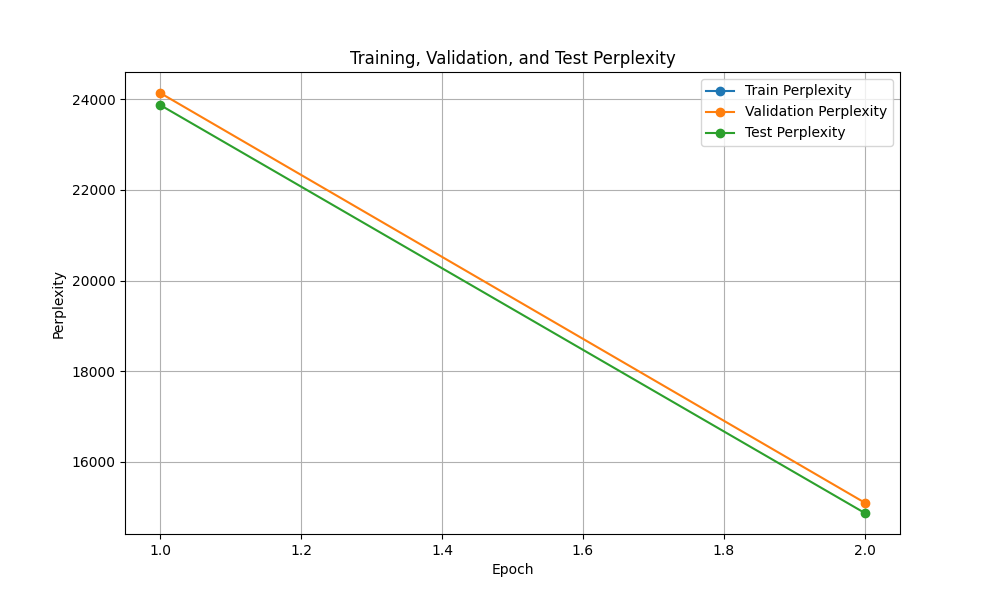
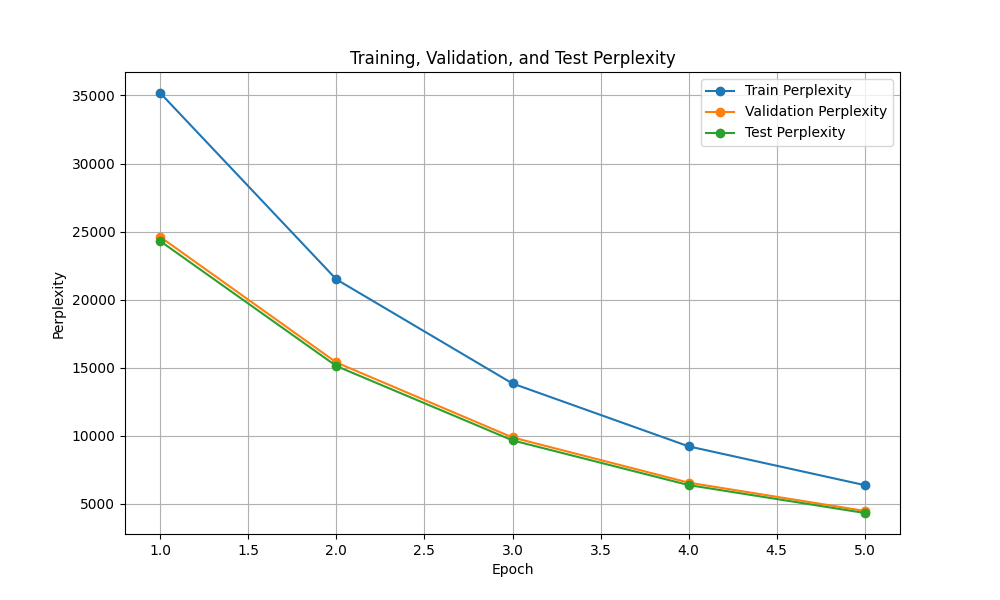
Plotting correct and report outline

diff --git a/saved/model/starter.py b/saved/model/starter.py
@@ -481,87 +481,52 @@ def test_model(model, opt, epoch, tokenizer):
     perplexity = torch.exp(torch.tensor(avg_loss)).item()
     print(f"Epoch {epoch+1}, Test Loss: {avg_loss:.4f}, Test Perplexity: {perplexity:.2f}")
     with open(opt.log_file, "a") as f:
-        f.write(f"Epoch {epoch+1}, Test Perplexity: {perplexity:.2f}\n")
+        f.write(f"Epoch {epoch+1}, Test Loss: {avg_loss:.4f}, Test Perplexity: {perplexity:.2f}\n")
     model.train()
 
 
 def plot_metrics(log_file):
-    epochs = []
-    train_losses = []
-    train_perplexities = []
-    val_losses = []
-    val_perplexities = []
-    test_losses = [] 
-    test_perplexities = []
+    metrics = {}
 
     with open(log_file, 'r') as f:
         for line in f:
-            # Extract epoch number
             epoch_match = re.search(r'Epoch (\d+)', line)
             if epoch_match:
                 epoch = int(epoch_match.group(1))
-                if epoch not in epochs:
-                    epochs.append(epoch)
-                    # Initialize metrics for the new epoch
-                    train_loss = None
-                    train_perplexity = None
-                    val_loss = None
-                    val_perplexity = None
-                    test_loss = None
-                    test_perplexity = None
-                else:
-                    # If epoch already exists, find the index to update
-                    epoch_index = epochs.index(epoch)
-                    train_loss = train_losses[epoch_index] if epoch_index < len(train_losses) else None
-                    train_perplexity = train_perplexities[epoch_index] if epoch_index < len(train_perplexities) else None
-                    val_loss = val_losses[epoch_index] if epoch_index < len(val_losses) else None
-                    val_perplexity = val_perplexities[epoch_index] if epoch_index < len(val_perplexities) else None
-                    test_loss = test_losses[epoch_index] if epoch_index < len(test_losses) else None
-                    test_perplexity = test_perplexities[epoch_index] if epoch_index < len(test_perplexities) else None
+                if epoch not in metrics:
+                    metrics[epoch] = {}
 
-            # Extract train loss
-            train_loss_match = re.search(r'Train Loss \(Epoch\): (\d+\.\d+)', line)
-            if train_loss_match and epoch in epochs:
-                train_losses.append(float(train_loss_match.group(1)))
+            train_loss_match = re.search(r'Train Loss: (\d+\.\d+)', line)
+            if train_loss_match and epoch in metrics:
+                metrics[epoch]['train_loss'] = float(train_loss_match.group(1))
 
-            # Extract train perplexity
-            train_perplexity_match = re.search(r'Train Perplexity \(Epoch\): (\d+\.\d+)', line)
-            if train_perplexity_match and epoch in epochs:
-                train_perplexities.append(float(train_perplexity_match.group(1)))
+            train_perplexity_match = re.search(r'Train Perplexity: (\d+\.\d+)', line)
+            if train_perplexity_match and epoch in metrics:
+                metrics[epoch]['train_perplexity'] = float(train_perplexity_match.group(1))
 
-            # Extract validation loss
             val_loss_match = re.search(r'Validation Loss: (\d+\.\d+)', line)
-            if val_loss_match and epoch in epochs:
-                val_losses.append(float(val_loss_match.group(1)))
+            if val_loss_match and epoch in metrics:
+                metrics[epoch]['val_loss'] = float(val_loss_match.group(1))
 
-            # Extract validation perplexity
             val_perplexity_match = re.search(r'Validation Perplexity: (\d+\.\d+)', line)
-            if val_perplexity_match and epoch in epochs:
-                val_perplexities.append(float(val_perplexity_match.group(1)))
+            if val_perplexity_match and epoch in metrics:
+                metrics[epoch]['val_perplexity'] = float(val_perplexity_match.group(1))
 
-            # Extract test loss (if you start saving it)
             test_loss_match = re.search(r'Test Loss: (\d+\.\d+)', line)
-            if test_loss_match and epoch in epochs:
-                test_losses.append(float(test_loss_match.group(1)))
+            if test_loss_match and epoch in metrics:
+                metrics[epoch]['test_loss'] = float(test_loss_match.group(1))
 
-            # Extract test perplexity
             test_perplexity_match = re.search(r'Test Perplexity: (\d+\.\d+)', line)
-            if test_perplexity_match and epoch in epochs:
-                test_perplexities.append(float(test_perplexity_match.group(1)))
+            if test_perplexity_match and epoch in metrics:
+                metrics[epoch]['test_perplexity'] = float(test_perplexity_match.group(1))
 
-    # Ensure all lists have the same length as epochs
-    while len(train_losses) < len(epochs):
-        train_losses.append(None)
-    while len(train_perplexities) < len(epochs):
-        train_perplexities.append(None)
-    while len(val_losses) < len(epochs):
-        val_losses.append(None)
-    while len(val_perplexities) < len(epochs):
-        val_perplexities.append(None)
-    while len(test_losses) < len(epochs):
-        test_losses.append(None)
-    while len(test_perplexities) < len(epochs):
-        test_perplexities.append(None)
+    epochs = sorted(metrics.keys())
+    train_losses = [metrics[e].get('train_loss') for e in epochs]
+    train_perplexities = [metrics[e].get('train_perplexity') for e in epochs]
+    val_losses = [metrics[e].get('val_loss') for e in epochs]
+    val_perplexities = [metrics[e].get('val_perplexity') for e in epochs]
+    test_losses = [metrics[e].get('test_loss') for e in epochs]
+    test_perplexities = [metrics[e].get('test_perplexity') for e in epochs]
 
     # Plotting Losses
     plt.figure(figsize=(10, 6))

diff --git a/starter.py b/starter.py
@@ -481,87 +481,52 @@ def test_model(model, opt, epoch, tokenizer):
     perplexity = torch.exp(torch.tensor(avg_loss)).item()
     print(f"Epoch {epoch+1}, Test Loss: {avg_loss:.4f}, Test Perplexity: {perplexity:.2f}")
     with open(opt.log_file, "a") as f:
-        f.write(f"Epoch {epoch+1}, Test Perplexity: {perplexity:.2f}\n")
+        f.write(f"Epoch {epoch+1}, Test Loss: {avg_loss:.4f}, Test Perplexity: {perplexity:.2f}\n")
     model.train()
 
 
 def plot_metrics(log_file):
-    epochs = []
-    train_losses = []
-    train_perplexities = []
-    val_losses = []
-    val_perplexities = []
-    test_losses = [] 
-    test_perplexities = []
+    metrics = {}
 
     with open(log_file, 'r') as f:
         for line in f:
-            # Extract epoch number
             epoch_match = re.search(r'Epoch (\d+)', line)
             if epoch_match:
                 epoch = int(epoch_match.group(1))
-                if epoch not in epochs:
-                    epochs.append(epoch)
-                    # Initialize metrics for the new epoch
-                    train_loss = None
-                    train_perplexity = None
-                    val_loss = None
-                    val_perplexity = None
-                    test_loss = None
-                    test_perplexity = None
-                else:
-                    # If epoch already exists, find the index to update
-                    epoch_index = epochs.index(epoch)
-                    train_loss = train_losses[epoch_index] if epoch_index < len(train_losses) else None
-                    train_perplexity = train_perplexities[epoch_index] if epoch_index < len(train_perplexities) else None
-                    val_loss = val_losses[epoch_index] if epoch_index < len(val_losses) else None
-                    val_perplexity = val_perplexities[epoch_index] if epoch_index < len(val_perplexities) else None
-                    test_loss = test_losses[epoch_index] if epoch_index < len(test_losses) else None
-                    test_perplexity = test_perplexities[epoch_index] if epoch_index < len(test_perplexities) else None
+                if epoch not in metrics:
+                    metrics[epoch] = {}
 
-            # Extract train loss
-            train_loss_match = re.search(r'Train Loss \(Epoch\): (\d+\.\d+)', line)
-            if train_loss_match and epoch in epochs:
-                train_losses.append(float(train_loss_match.group(1)))
+            train_loss_match = re.search(r'Train Loss: (\d+\.\d+)', line)
+            if train_loss_match and epoch in metrics:
+                metrics[epoch]['train_loss'] = float(train_loss_match.group(1))
 
-            # Extract train perplexity
-            train_perplexity_match = re.search(r'Train Perplexity \(Epoch\): (\d+\.\d+)', line)
-            if train_perplexity_match and epoch in epochs:
-                train_perplexities.append(float(train_perplexity_match.group(1)))
+            train_perplexity_match = re.search(r'Train Perplexity: (\d+\.\d+)', line)
+            if train_perplexity_match and epoch in metrics:
+                metrics[epoch]['train_perplexity'] = float(train_perplexity_match.group(1))
 
-            # Extract validation loss
             val_loss_match = re.search(r'Validation Loss: (\d+\.\d+)', line)
-            if val_loss_match and epoch in epochs:
-                val_losses.append(float(val_loss_match.group(1)))
+            if val_loss_match and epoch in metrics:
+                metrics[epoch]['val_loss'] = float(val_loss_match.group(1))
 
-            # Extract validation perplexity
             val_perplexity_match = re.search(r'Validation Perplexity: (\d+\.\d+)', line)
-            if val_perplexity_match and epoch in epochs:
-                val_perplexities.append(float(val_perplexity_match.group(1)))
+            if val_perplexity_match and epoch in metrics:
+                metrics[epoch]['val_perplexity'] = float(val_perplexity_match.group(1))
 
-            # Extract test loss (if you start saving it)
             test_loss_match = re.search(r'Test Loss: (\d+\.\d+)', line)
-            if test_loss_match and epoch in epochs:
-                test_losses.append(float(test_loss_match.group(1)))
+            if test_loss_match and epoch in metrics:
+                metrics[epoch]['test_loss'] = float(test_loss_match.group(1))
 
-            # Extract test perplexity
             test_perplexity_match = re.search(r'Test Perplexity: (\d+\.\d+)', line)
-            if test_perplexity_match and epoch in epochs:
-                test_perplexities.append(float(test_perplexity_match.group(1)))
+            if test_perplexity_match and epoch in metrics:
+                metrics[epoch]['test_perplexity'] = float(test_perplexity_match.group(1))
 
-    # Ensure all lists have the same length as epochs
-    while len(train_losses) < len(epochs):
-        train_losses.append(None)
-    while len(train_perplexities) < len(epochs):
-        train_perplexities.append(None)
-    while len(val_losses) < len(epochs):
-        val_losses.append(None)
-    while len(val_perplexities) < len(epochs):
-        val_perplexities.append(None)
-    while len(test_losses) < len(epochs):
-        test_losses.append(None)
-    while len(test_perplexities) < len(epochs):
-        test_perplexities.append(None)
+    epochs = sorted(metrics.keys())
+    train_losses = [metrics[e].get('train_loss') for e in epochs]
+    train_perplexities = [metrics[e].get('train_perplexity') for e in epochs]
+    val_losses = [metrics[e].get('val_loss') for e in epochs]
+    val_perplexities = [metrics[e].get('val_perplexity') for e in epochs]
+    test_losses = [metrics[e].get('test_loss') for e in epochs]
+    test_perplexities = [metrics[e].get('test_perplexity') for e in epochs]
 
     # Plotting Losses
     plt.figure(figsize=(10, 6))

diff --git a/report.md b/report.md
@@ -1,0 +1,25 @@
+# Decoder Based Transformer - Homework 1
+
+### Modification to original code
+
+The original code for this homework was an Encoder-Decoder Transformer architecture that had a source and target vocabulary while also using cross-attention. To alter this into a decoder only autoregressive language model, the first step was to get rid of the encoder completely. I commented out the original encoder and changed the input paramteres to the decoder to exclude the output of the encoder (). Second, the cross-attention is no longer needed. Self-attention is the only thing this model needs to utilize. For this reason, the lines that performed cross attention in the `MultiHeadAttention` class were commented out. 
+---
+
+### Results 
+
+---
+
+### Hyperparameters
+
+---
+
+### Training Script and weights
+
+---
+
+### Training on Wikitext-103
+
+---
+
+### Replaced Attention with Euclidean distance: Results
+
